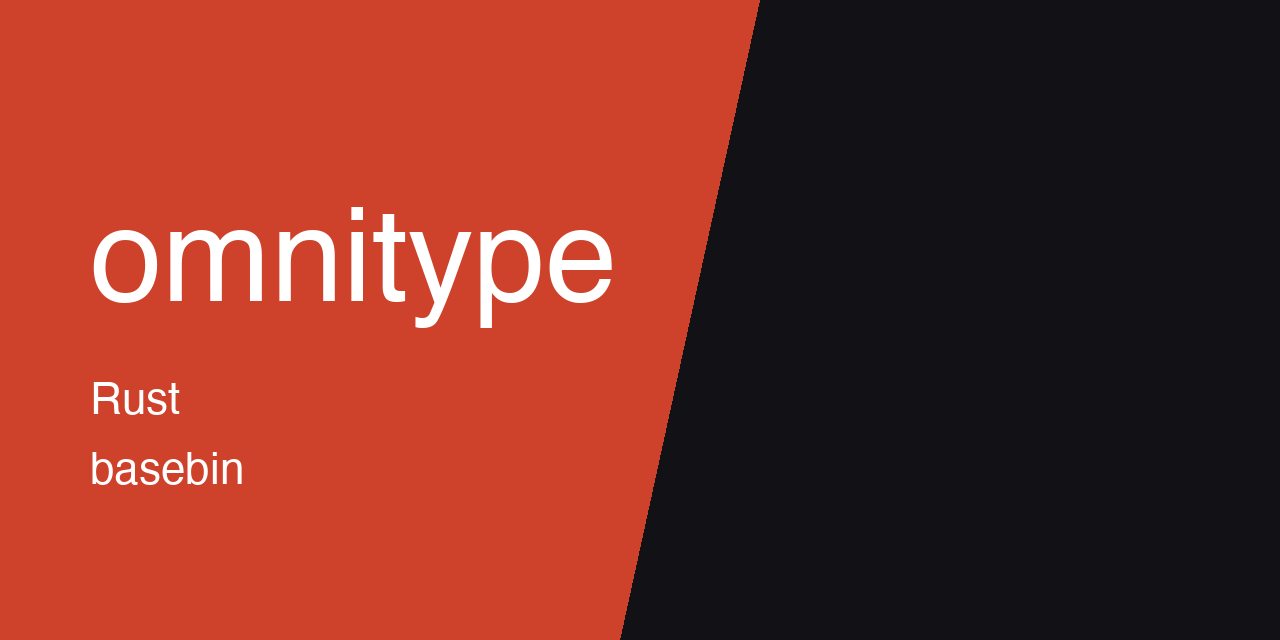
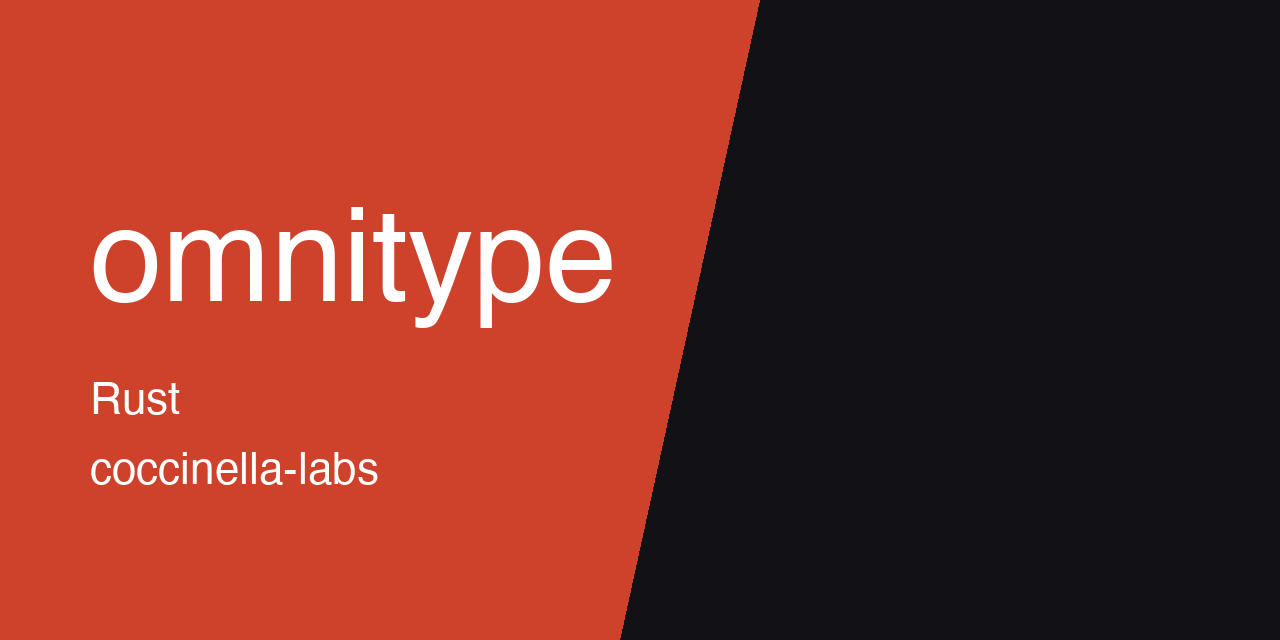
[docs] move thumbnail to coccinella-labs

Changed region(s): [[0.0625, 0.7188, 0.3125, 0.7812]]

diff --git a/README.md b/README.md
@@ -1,5 +1,5 @@
 <p align="center">
-  <img src="https://raw.githubusercontent.com/basebin/omnitype/main/.github/assets/thumbnail.png" alt="omnitype" width="100%">
+  <img src="https://raw.githubusercontent.com/Coccinella-Labs/omnitype/main/.github/assets/thumbnail.png" alt="omnitype" width="100%">
 </p>
 
 # Omnitype
